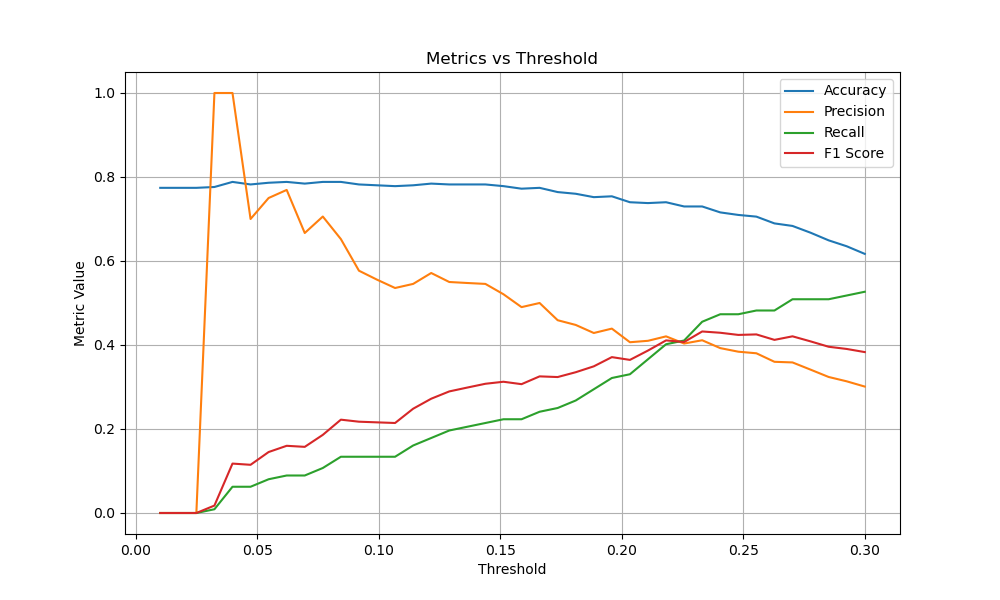
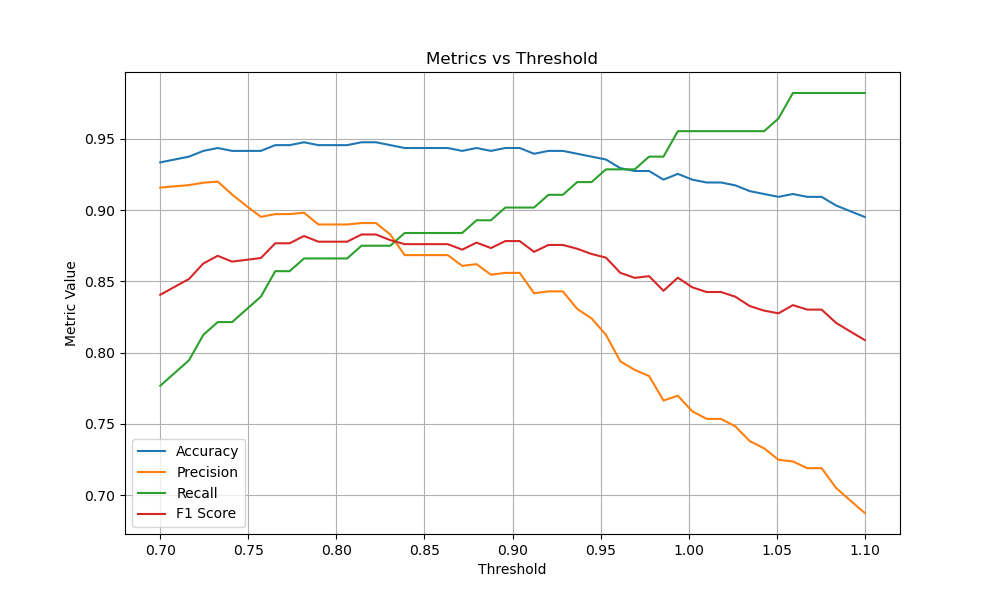
update best model so far
model_augTrue_blTrue_bs8_ep20_lr0.001_mg2.0

diff --git a/project3_fingerprint_fvc2000/inference_batch.py b/project3_fingerprint_fvc2000/inference_batch.py
@@ -7,6 +7,7 @@ from preprocess import normalize
 from create_train_pairs import load_images_by_finger_tif, create_pairs
 from siamese_model import SiameseNetwork
 from utils import print_classification_report
+from random import sample
 
 
 def inference_batch(model, pairs, labels, threshold=0.041, device="cpu"):
@@ -45,37 +46,83 @@ def inference_batch(model, pairs, labels, threshold=0.041, device="cpu"):
     print_classification_report(tp, tn, fp, fn)
 
 
+def auto_calibrate_threshold(model, calib_pairs, calib_labels, device="cpu",
+                             search_min=0.0, search_max=1.2, steps=120):
+    """
+    Given a batch of calibrated pairs + labels, scan the threshold to find the highest F1 point.
+    Returns: best_threshold, best_f1
+    """
+    model.eval()
+    dists = []
+
+    with torch.no_grad():
+        for (p1, p2), _ in zip(calib_pairs, calib_labels):
+            a = torch.from_numpy(np.load(p1)).unsqueeze(0).unsqueeze(0).to(device)
+            b = torch.from_numpy(np.load(p2)).unsqueeze(0).unsqueeze(0).to(device)
+            f1, f2 = model(a, b)
+            dists.append(F.pairwise_distance(f1, f2).item())
+
+    dists = np.array(dists)
+    labs  = np.array(calib_labels)
+
+    thresholds = np.linspace(search_min, search_max, steps)
+    best_f1, best_t = 0.0, thresholds[0]
+
+    for t in thresholds:
+        pred = (dists < t).astype(int)
+        tp = np.sum((pred == 1) & (labs == 1))
+        fp = np.sum((pred == 1) & (labs == 0))
+        fn = np.sum((pred == 0) & (labs == 1))
+        prec = tp / (tp + fp + 1e-8)
+        rec  = tp / (tp + fn + 1e-8)
+        f1   = 2 * prec * rec / (prec + rec + 1e-8)
+
+        if f1 > best_f1:
+            best_f1, best_t = f1, t
+
+    return best_t, best_f1
+
+
 def main():
-    #db3_path = "./project3_fingerprint_fvc2000/data/original/DB3_B"
+    # ------------ paths ------------
+    #inference_data_path = "./project3_fingerprint_fvc2000/data/original/DB3_B"
     inference_data_path = "./project3_fingerprint_fvc2000/data/original/DB2_B"
     # IMPORTANT: Change the model path to your trained model
-    model_path = "./project3_fingerprint_fvc2000/checkpoints/model_augFalse_bs4_ep5_lr0.0005_mg1.0.pt"
+    model_path = "./project3_fingerprint_fvc2000/checkpoints/model_augTrue_blTrue_bs8_ep20_lr0.001_mg2.0.pt"
     
-    
-    # Load the best threshold from file if it exists
-    threshold = 0.04
-    # threshold_file = "./project3_fingerprint_fvc2000/outputs/best_threshold.txt"
-    # if os.path.exists(threshold_file):
-    #     with open(threshold_file, "r") as f:
-    #         threshold = float(f.read().strip())
-    #     print(f"Loaded best threshold: {threshold}")
-    # else:
-    #     threshold = 0.05  # fallback 
-    #     print(f" No threshold file found, using default threshold = {threshold}")
 
-
+    # ------------ device / model ------------
     device = torch.device("cuda" if torch.cuda.is_available() else "cpu")
-
     model = SiameseNetwork().to(device)
     model.load_state_dict(torch.load(model_path, map_location=device))
-    print(f" Loaded model from {model_path}")
+    print(f"Loaded model from {model_path}")
 
-    # load inference_data_path images and create pairs
+    # ------------ build pairs for this DB ------------
     finger_dict = load_images_by_finger_tif(inference_data_path)
-    selected_fingers = sorted(finger_dict.keys())
-    pairs, labels = create_pairs(finger_dict, selected_fingers)
+    pairs, labels = create_pairs(finger_dict, sorted(finger_dict.keys()),
+                                 augment_positive=False, num_augments=0,
+                                 balance_negatives=False)
+    
+    # ------------ 20 % calibrate, 80 % infer ------------
+    idx = np.arange(len(pairs))
+    np.random.seed(42)
+    np.random.shuffle(idx)
 
-    inference_batch(model, pairs, labels, threshold=threshold, device=device)
+    split = int(0.2 * len(idx))
+    calib_idx, infer_idx = idx[:split], idx[split:]
+
+    calib_pairs  = [pairs[i]  for i in calib_idx]
+    calib_labels = [labels[i] for i in calib_idx]
+    infer_pairs  = [pairs[i]  for i in infer_idx]
+    infer_labels = [labels[i] for i in infer_idx]
+
+    print(f"Calibration pairs : {len(calib_pairs)}")
+    threshold, f1_calib = auto_calibrate_threshold(model, calib_pairs, calib_labels, device)
+    print(f"Auto-calibrated threshold = {threshold:.4f}  (F1 on calib = {f1_calib:.4f})")
+
+    # ------------ final inference ------------
+    inference_batch(model, infer_pairs, infer_labels,
+                    threshold=threshold, device=device, desc="Inference-80%")
     
 
 if __name__ == "__main__":

diff --git a/project3_fingerprint_fvc2000/train.py b/project3_fingerprint_fvc2000/train.py
@@ -41,9 +41,9 @@ def validate(model, dataloader, loss_fn, device):
 
 def main():
     # -------------- Config --------------
-    use_augmentation = False  # IMPORTANT: Set to True if training on augmented data
+    use_augmentation = True  # IMPORTANT: Set to True if training on augmented data
     balance_negatives = True  # IMPORTANT: Should match how you created training pairs
-    num_augments = 2  # Just for record (affects ckpt name)
+    #num_augments = 4  # Just for record (affects ckpt name)
 
     if use_augmentation:
         train_data_path = "./project3_fingerprint_fvc2000/data/train_pairs_augmented.npz"
@@ -56,7 +56,7 @@ def main():
     batch_size = 8
     num_epochs = 20
     learning_rate = 0.001
-    margin = 1.0
+    margin = 2.0
     ckpt_filename = f"model_aug{use_augmentation}_bl{balance_negatives}_bs{batch_size}_ep{num_epochs}_lr{learning_rate}_mg{margin}.pt"
     ckpt_path = f"./project3_fingerprint_fvc2000/checkpoints/{ckpt_filename}"
     resume = False  # IMPORTANT: Set to True to resume training from the last checkpoint
@@ -78,8 +78,8 @@ def main():
         model.load_state_dict(torch.load(ckpt_path))
 
     loss_fn = ContrastiveLoss(margin=margin)
-    #optimizer = torch.optim.Adam(model.parameters(), lr=learning_rate) 
-    optimizer = torch.optim.Adam(model.parameters(), lr=learning_rate, weight_decay=1e-4)
+    optimizer = torch.optim.Adam(model.parameters(), lr=learning_rate) 
+    #optimizer = torch.optim.Adam(model.parameters(), lr=learning_rate, weight_decay=1e-4)
     scheduler = ReduceLROnPlateau(optimizer, mode="min", factor=0.1, patience=2, verbose=True)
     early_stop_patience = 4      # if validation loss does not improve for this many epochs, stop training
     bad_epochs = 0

diff --git a/project3_fingerprint_fvc2000/utils.py b/project3_fingerprint_fvc2000/utils.py
@@ -42,17 +42,19 @@ class SiameseDataset(Dataset):
 
 
 class ContrastiveLoss(nn.Module):
-    def __init__(self, margin=1.0):
-        super(ContrastiveLoss, self).__init__()
+    def __init__(self, margin=2.0):          
+        super().__init__()
         self.margin = margin
 
-    def forward(self, output1, output2, label):
-        distances = torch.nn.functional.pairwise_distance(output1, output2)
-        loss = torch.mean(
-            (1 - label) * torch.pow(distances, 2) +
-            label * torch.pow(torch.clamp(self.margin - distances, min=0.0), 2)
-        )
-        return loss
+    def forward(self, out1, out2, label):
+        # Euclidean distance between embeddings
+        d = torch.nn.functional.pairwise_distance(out1, out2)
+        # label = 1 → same finger  → target distance = 0
+        # label = 0 → different    → target distance ≥ margin
+        loss = label * d.pow(2) + (1 - label) * torch.clamp(self.margin - d, min=0.0).pow(2)
+        return loss.mean()                  # ← 缩进对齐
+
+
 
 
 def plot_loss(train_losses, val_losses, save_path=None):
@@ -217,7 +219,7 @@ def print_classification_report(tp, tn, fp, fn):
 
 def plot_metrics_vs_threshold(model, dataloader, device="cpu", save_path=None):
     model.eval()
-    thresholds = np.linspace(0.01, 0.3, 40)
+    thresholds = np.linspace(0.7, 1.1, 50)
     all_distances = []
     all_labels = []
 

diff --git a/project3_fingerprint_fvc2000/validate.py b/project3_fingerprint_fvc2000/validate.py
@@ -44,11 +44,11 @@ def main():
     val_data_path = "./project3_fingerprint_fvc2000/data/val_pairs.npz"
 
     # IMPORTANT: Change the model path to your trained model
-    ckpt_path = "./project3_fingerprint_fvc2000/checkpoints/model_augFalse_bs4_ep5_lr0.0005_mg1.0.pt"
+    ckpt_path = "./project3_fingerprint_fvc2000/checkpoints/model_augTrue_blTrue_bs8_ep20_lr0.001_mg2.0.pt"
 
-    batch_size = 4
+    batch_size = 8
 
-    threshold = 0.06
+    threshold = 0.814286 
 
     # Load the best threshold from file if it exists
     # threshold_file = "./project3_fingerprint_fvc2000/outputs/best_threshold.txt"

diff --git a/project3_fingerprint_fvc2000/preprocess.py b/project3_fingerprint_fvc2000/preprocess.py
@@ -58,8 +58,8 @@ def main():
     val_fingers = all_fingers[6:]     # validating set = 107 - 110
 
     # IMPORTANT
-    use_augmentation = False # TRUE for data augmentation
-    num_augments = 2 # number of augmentations per positive pair
+    use_augmentation = True # TRUE for data augmentation
+    num_augments = 4 # number of augmentations per positive pair
     balance_negatives = True  # TRUE for balancing number ofnegative samples to match number of positive samples
     
     if use_augmentation:

diff --git a/project3_fingerprint_fvc2000/test/test_before_training.py b/project3_fingerprint_fvc2000/test/test_before_training.py
@@ -29,7 +29,3 @@ def test_one_pair(pair_path="./project3_fingerprint_fvc2000/data/train_pairs.npz
 
 if __name__ == "__main__":
     test_one_pair()
-
-import numpy as np, glob, os
-sample = np.load(glob.glob("project3_fingerprint_fvc2000/data/processed/DB1_B/*.npy")[0])
-print(sample.min(), sample.max(), sample.dtype)
